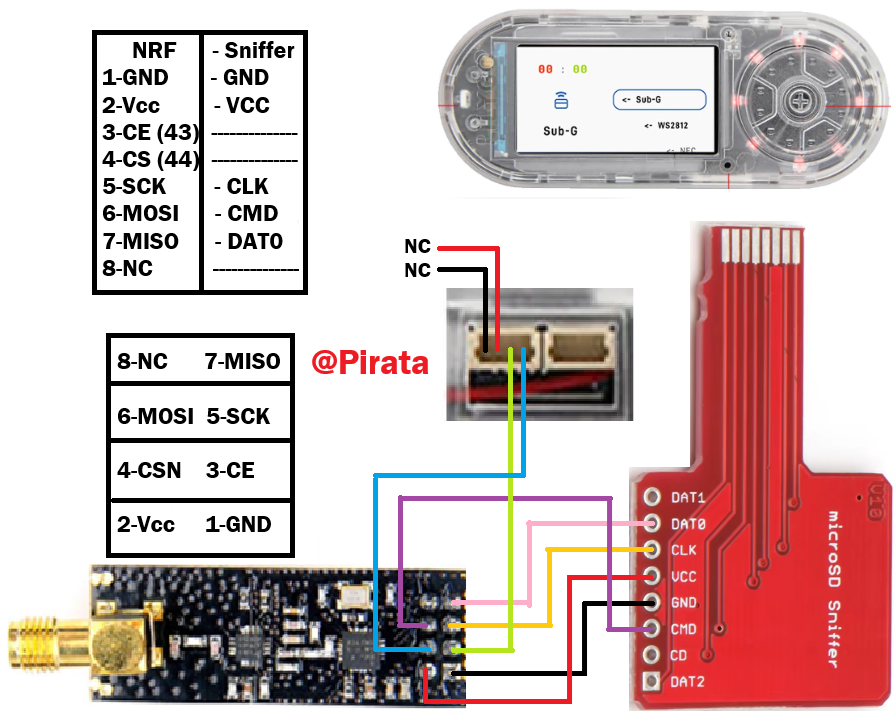
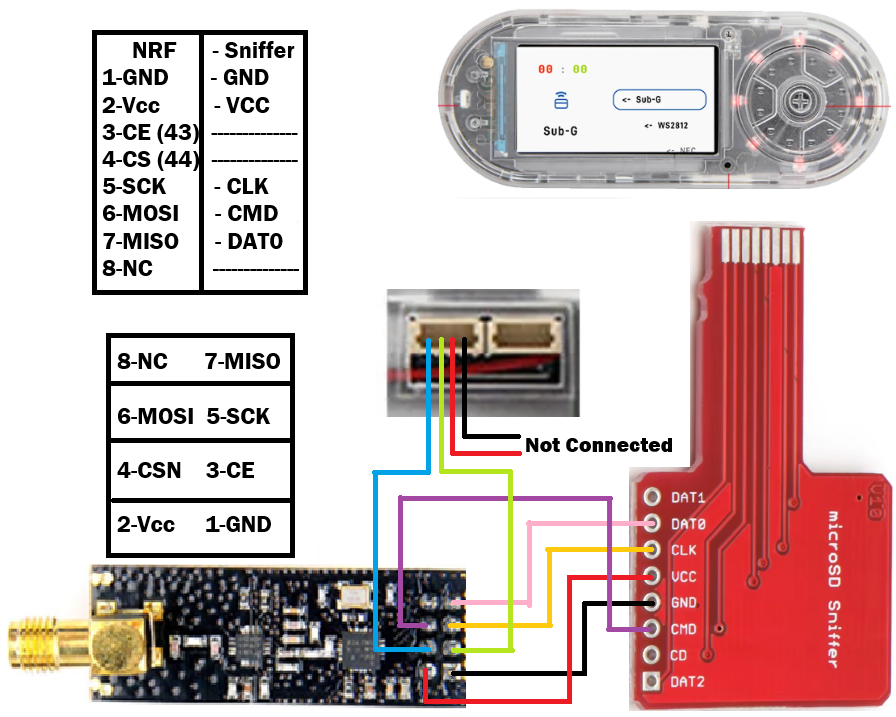
touches

Changed region(s): [[0.3438, 0.3375, 0.75, 0.675]]

diff --git a/src/modules/ir/custom_ir.cpp b/src/modules/ir/custom_ir.cpp
@@ -326,13 +326,9 @@ void otherIRcodes() {
     options.push_back({"Main Menu", [&]() { exit = true; }});
     databaseFile.close();
 
-
-    
-  
-  #ifdef USE_BQ25896  ///DISABLE 5V OUTPUT
-  PPM.disableOTG();
-  #endif
-
+#ifdef USE_BQ25896 /// DISABLE 5V OUTPUT
+    PPM.disableOTG();
+#endif
 
     digitalWrite(bruceConfig.irTx, LED_OFF);
     int idx = 0;
@@ -588,7 +584,7 @@ void sendKaseikyoCommand(String address, String command) {
 
 bool sendDecodedCommand(String protocol, String value, uint8_t bits) {
     // https://github.com/crankyoldgit/IRremoteESP8266/blob/master/examples/SmartIRRepeater/SmartIRRepeater.ino
-
+#ifndef LITE_VERSION
     decode_type_t type = strToDecodeType(protocol.c_str());
     if (type == decode_type_t::UNKNOWN) return false;
 
@@ -635,13 +631,18 @@ bool sendDecodedCommand(String protocol, String value, uint8_t bits) {
     );
     digitalWrite(bruceConfig.irTx, LED_OFF);
     return success;
+#else
+    displayTextLine("Unavailable on LITE Version");
+    delay(1000);
+    return false;
+#endif
 }
 
 void sendRawCommand(uint16_t frequency, String rawData) {
- #ifdef USE_BQ25896  ///ENABLE 5V OUTPUT
-  PPM.enableOTG();
-  #endif
-    
+#ifdef USE_BQ25896 /// ENABLE 5V OUTPUT
+    PPM.enableOTG();
+#endif
+
     IRsend irsend(bruceConfig.irTx); // Set the GPIO to be used to sending the message.
     irsend.begin();
     displayTextLine("Sending..");

diff --git a/src/modules/rfid/PN532KillerTools.cpp b/src/modules/rfid/PN532KillerTools.cpp
@@ -10,7 +10,8 @@
 #include <WiFi.h>
 #include <WiFiUdp.h>
 
-#ifdef ARDUINO_M5STICK_C_PLUS || ARDUINO_M5STICK_C_PLUS2
+#if defined(ARDUINO_M5STICK_C_PLUS) || defined(ARDUINO_M5STICK_C_PLUS2)
+
 #define TXD_PIN (GPIO_NUM_25)
 #define RXD_PIN (GPIO_NUM_26)
 #else

diff --git a/src/core/display.cpp b/src/core/display.cpp
@@ -1580,7 +1580,7 @@ bool drawImg(FS fs, String filename, int x, int y, bool center, int playDuration
     return false;
 }
 
-#if !defined(LITE_MODE)
+#if !defined(LITE_VERSION)
 /// Draw PNG files
 
 #include <PNGdec.h>

diff --git a/README.md b/README.md
@@ -210,7 +210,7 @@ Also, [read our FAQ](https://github.com/pr3y/Bruce/wiki/FAQ)
 </details>
 
 ## Specific functions per Device, the ones not mentioned here are available to all.
-| Device                  | CC1101    | NRF24    | FM Radio  | PN532     | Mic   | BadUSB    | RGB Led | Speaker   | Fuel Guage | LITE_MODE |
+| Device                  | CC1101    | NRF24    | FM Radio  | PN532     | Mic   | BadUSB    | RGB Led | Speaker   | Fuel Guage | LITE_VERSION |
 | ---                     | :---:     | :---:    | :---:     | :---:     | :---: | :---:     | :---:   | :---:     | :---:      | :---:     |
 | [M5Stack Cardputer](https://shop.m5stack.com/products/m5stack-cardputer-kit-w-m5stamps)       | :ok:      | :ok:     | :ok:      | :ok:      | :ok:  | :ok:      | :ok:    | NS4168    | :x:        | :x:       |
 | [M5Stack M5StickC PLUS2](https://shop.m5stack.com/products/m5stickc-plus2-esp32-mini-iot-development-kit)  | :ok:      | :ok:         | :ok:      | :ok:      | :ok:  | :ok:¹     | :x:     | Tone      | :x:        | :x:       |
@@ -228,7 +228,7 @@ Also, [read our FAQ](https://github.com/pr3y/Bruce/wiki/FAQ)
 ² CYD have a LITE_VERSION version for Launcher Compatibility
 ¹ Core, CYD and StickCs Bad-USB: [here](https://github.com/pr3y/Bruce/wiki/Others#badusb)
 
-*LITE_MODE*: TelNet, SSH, DPWO, WireGuard, ScanHosts, RawSniffer, Brucegotchi, BLEBacon, BLEScan, Interpreter and OpenHaystack are NOT available for M5Launcher Compatibility
+*LITE_VERSION*: TelNet, SSH, DPWO, WireGuard, ScanHosts, RawSniffer, Brucegotchi, BLEBacon, BLEScan, Interpreter and OpenHaystack are NOT available for M5Launcher Compatibility
 
 
 ## :sparkles: Why and how does it look?

diff --git a/sd_files/themes/README.md b/sd_files/themes/README.md
@@ -9,7 +9,7 @@ Themes are supposed to change the UI experience of the User by allowing you to c
 * Setting the Background Color.
 
 ## Images
-Bruce accepts **.bmp** **.jpg** **.gif** and **.png** (not available on LITE_MODE) to be used in the Main menu, but the bigger they are, greater will be the time to draw them on screen, **please, try to keep them small**.
+Bruce accepts **.bmp** **.jpg** **.gif** and **.png** (not available on LITE_VERSION) to be used in the Main menu, but the bigger they are, greater will be the time to draw them on screen, **please, try to keep them small**.
 
 The recommended height of the images is:
 